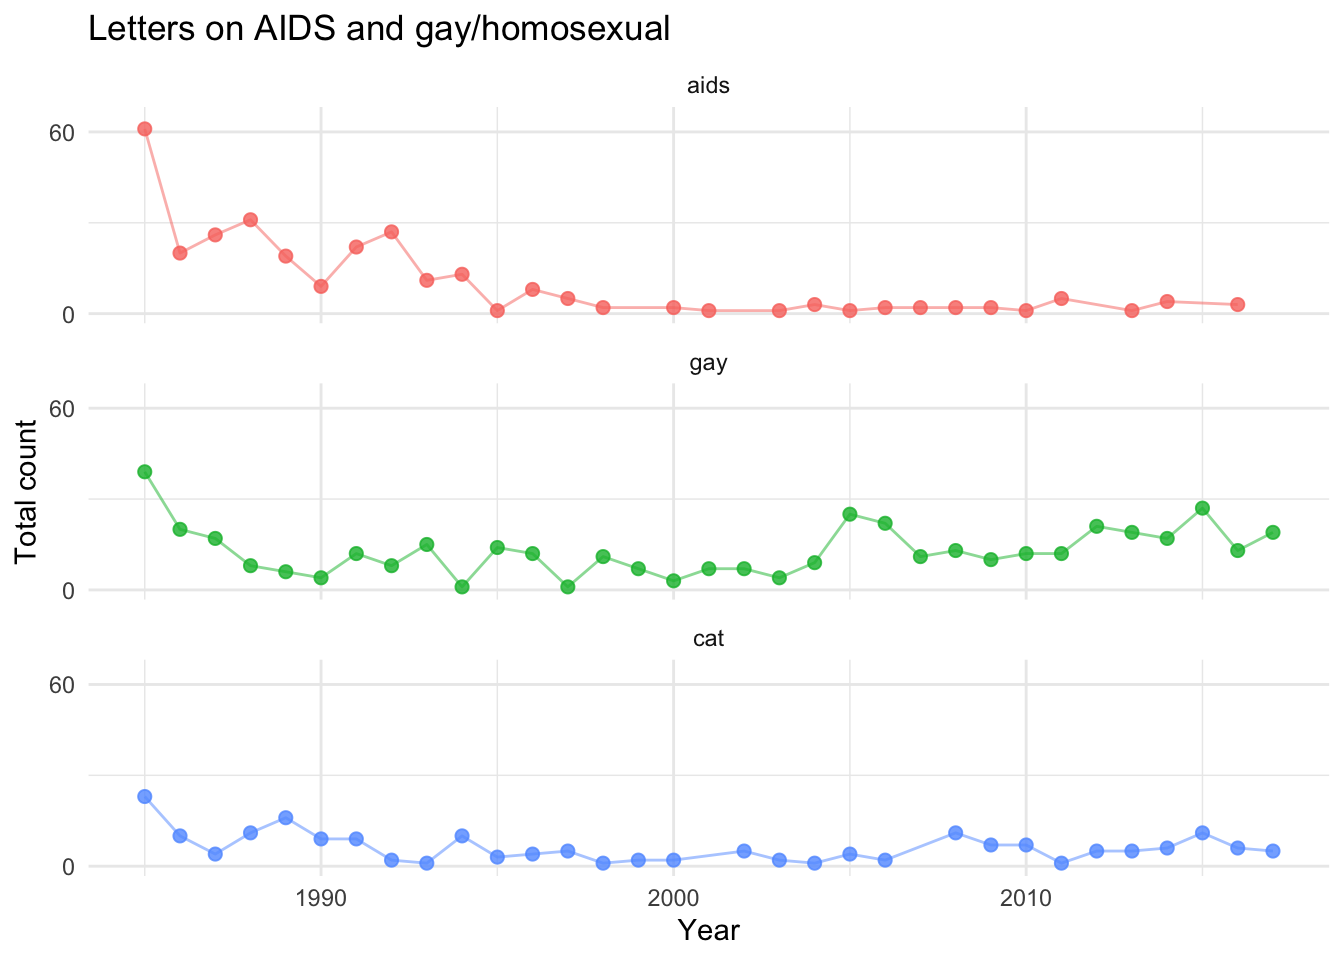
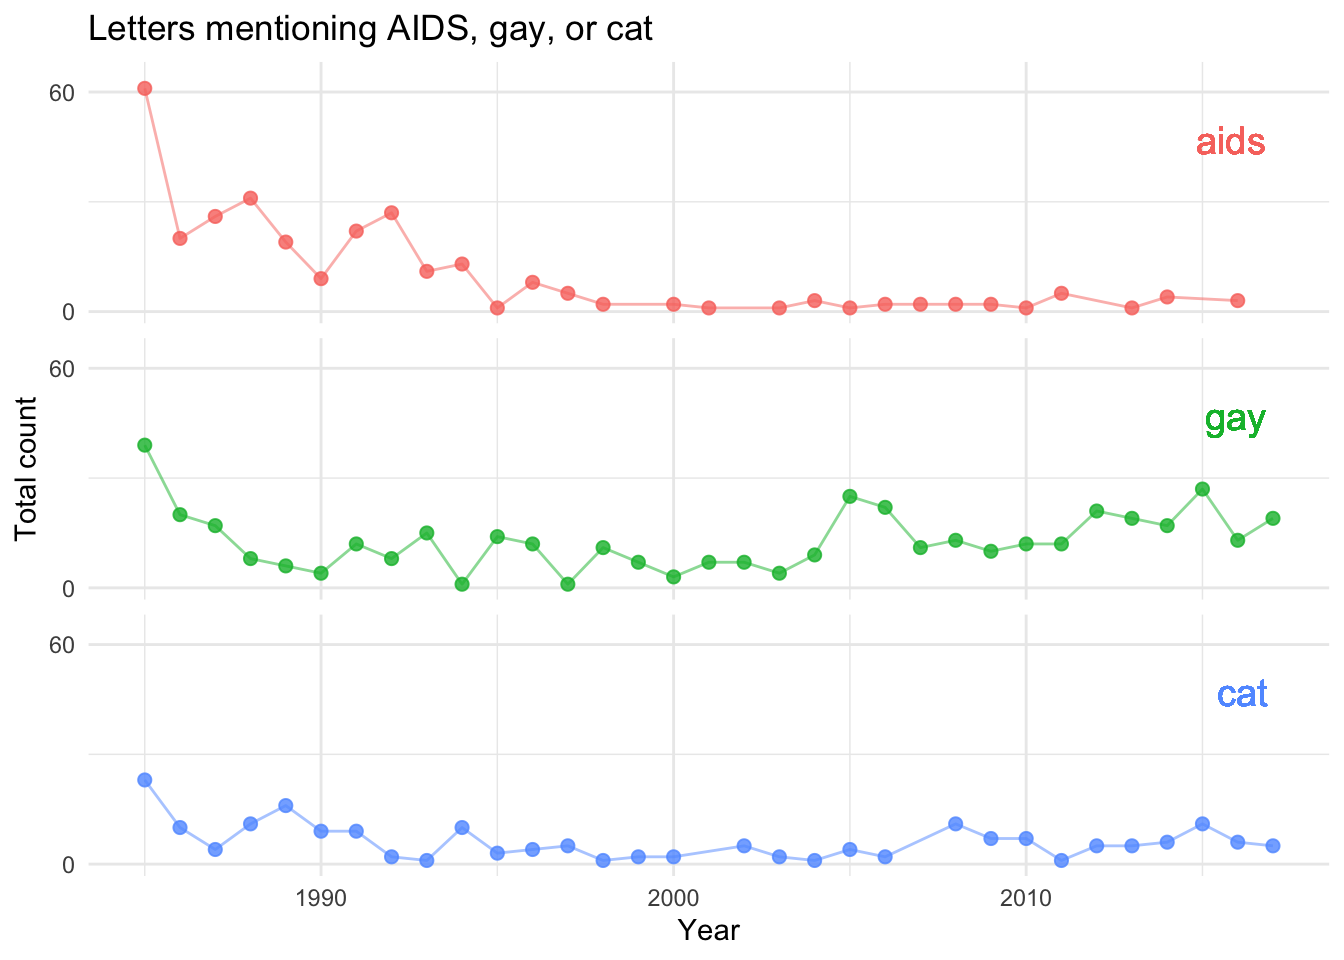
Otro

diff --git a/docs/pudding.html b/docs/pudding.html
@@ -576,8 +576,8 @@ pre > code.sourceCode > span > a:first-child::before { text-decoration: underlin
 </section>
 <section id="aids" class="level1">
 <h1>AIDS</h1>
-<p>Although <strong>Dear Abby</strong> was first published in The San Francisco Chronicle on January 9, 1956, the data analyzed here ranges from 1985 to 2017. The AIDS (Acquired Immune Deficiency Syndrome) pandemic officially began on June 5, 1981, when the U.S. Centers for Disease Control and Prevention (CDC) published a report detailing a rare form of pneumonia (<em>Pneumocystis carinii</em>) in five young gay men in Los Angeles. In 1985,the U.S. Food and Drug Administration (FDA) approved the first commercial blood test for HIV (Human Immunodeficiency Virus), allowing blood banks to screen donations. Public fear peaked following high-profile diagnoses, such as actor Rock Hudson publicizing his illness before dying in October 1985.</p>
-<p>Did the Dear Abby letters reflect the public preocupation for the AIDS pandemic in the 1980s? Below are plots showing the number of letters that included the words AIDS and gay or homosexual. For comparison, I have included letters containing the word cat.</p>
+<p>Although <strong>Dear Abby</strong> was first published in <em>The San Francisco Chronicle</em> on January 9, 1956, the data analyzed here ranges from 1985 to 2017. The AIDS (Acquired Immune Deficiency Syndrome) pandemic officially began on June 5, 1981, when the U.S. Centers for Disease Control and Prevention (CDC) published a report detailing a rare form of pneumonia (<em>Pneumocystis carinii</em>) in five young gay men in Los Angeles. In 1985, the U.S. Food and Drug Administration (FDA) approved the first commercial blood test for HIV (Human Immunodeficiency Virus), allowing blood banks to screen donations. Public fear peaked following high-profile diagnoses, such as actor Rock Hudson publicizing his illness before dying in October 1985.</p>
+<p>Did the Dear Abby letters reflect the public preocupation for the AIDS pandemic in the 1980s? Below are plots showing the number of letters that included the words <em>AIDS</em> and <em>gay</em> or <em>homosexual</em>. For comparison, letters containing the word <em>cat</em> are also displayed.</p>
 <div class="cell">
 <details class="code-fold">
 <summary>Code</summary>
@@ -612,20 +612,37 @@ pre > code.sourceCode > span > a:first-child::before { text-decoration: underlin
 <span id="cb11-29"><a href="#cb11-29" aria-hidden="true" tabindex="-1"></a>  <span class="fu">ggplot</span>(<span class="fu">aes</span>(<span class="at">x =</span> year, <span class="at">y =</span> n, <span class="at">color =</span> word)) <span class="sc">+</span></span>
 <span id="cb11-30"><a href="#cb11-30" aria-hidden="true" tabindex="-1"></a>  <span class="fu">geom_point</span>(<span class="at">alpha =</span> <span class="fl">0.8</span>, <span class="at">size =</span> <span class="dv">2</span>) <span class="sc">+</span></span>
 <span id="cb11-31"><a href="#cb11-31" aria-hidden="true" tabindex="-1"></a>  <span class="fu">geom_line</span>(<span class="at">alpha =</span> <span class="fl">0.5</span>) <span class="sc">+</span></span>
-<span id="cb11-32"><a href="#cb11-32" aria-hidden="true" tabindex="-1"></a>  <span class="fu">facet_wrap</span>(<span class="sc">~</span> word, <span class="at">ncol =</span> <span class="dv">1</span>, <span class="at">scales =</span> <span class="st">"fixed"</span>) <span class="sc">+</span> <span class="co"># Uses the same scale for all panels</span></span>
-<span id="cb11-33"><a href="#cb11-33" aria-hidden="true" tabindex="-1"></a>  <span class="fu">scale_y_continuous</span>(</span>
-<span id="cb11-34"><a href="#cb11-34" aria-hidden="true" tabindex="-1"></a>    <span class="at">limits =</span> <span class="fu">c</span>(<span class="dv">0</span>, <span class="dv">65</span>),   <span class="co"># Forces the axis to run from 0 to 4</span></span>
-<span id="cb11-35"><a href="#cb11-35" aria-hidden="true" tabindex="-1"></a>    <span class="at">breaks =</span> <span class="fu">c</span>(<span class="dv">0</span>, <span class="dv">60</span>),   <span class="co"># Places tick marks at both 0 and 4</span></span>
-<span id="cb11-36"><a href="#cb11-36" aria-hidden="true" tabindex="-1"></a>    <span class="at">labels =</span> <span class="fu">c</span>(<span class="st">"0"</span>, <span class="st">"60"</span>) <span class="co"># Displays labels for both 0 and 4</span></span>
-<span id="cb11-37"><a href="#cb11-37" aria-hidden="true" tabindex="-1"></a>  ) <span class="sc">+</span></span>
-<span id="cb11-38"><a href="#cb11-38" aria-hidden="true" tabindex="-1"></a>  <span class="fu">labs</span>(</span>
-<span id="cb11-39"><a href="#cb11-39" aria-hidden="true" tabindex="-1"></a>    <span class="at">title =</span> <span class="st">"Letters on AIDS and gay/homosexual"</span>,</span>
-<span id="cb11-40"><a href="#cb11-40" aria-hidden="true" tabindex="-1"></a>    <span class="at">x =</span> <span class="st">"Year"</span>,</span>
-<span id="cb11-41"><a href="#cb11-41" aria-hidden="true" tabindex="-1"></a>    <span class="at">y =</span> <span class="st">"Total count"</span>,</span>
-<span id="cb11-42"><a href="#cb11-42" aria-hidden="true" tabindex="-1"></a>    <span class="at">color =</span> <span class="st">"Word"</span></span>
-<span id="cb11-43"><a href="#cb11-43" aria-hidden="true" tabindex="-1"></a>  ) <span class="sc">+</span></span>
-<span id="cb11-44"><a href="#cb11-44" aria-hidden="true" tabindex="-1"></a>  <span class="fu">theme_minimal</span>() <span class="sc">+</span></span>
-<span id="cb11-45"><a href="#cb11-45" aria-hidden="true" tabindex="-1"></a>  <span class="fu">theme</span>(<span class="at">legend.position =</span> <span class="st">"none"</span>) <span class="co"># Optional: hides legend since each panel is already labeled</span></span></code></pre></div><button title="Copy to Clipboard" class="code-copy-button"><i class="bi"></i></button></div>
+<span id="cb11-32"><a href="#cb11-32" aria-hidden="true" tabindex="-1"></a>  <span class="fu">facet_wrap</span>(<span class="sc">~</span> word, <span class="at">ncol =</span> <span class="dv">1</span>, <span class="at">scales =</span> <span class="st">"fixed"</span>) <span class="sc">+</span> </span>
+<span id="cb11-33"><a href="#cb11-33" aria-hidden="true" tabindex="-1"></a>  </span>
+<span id="cb11-34"><a href="#cb11-34" aria-hidden="true" tabindex="-1"></a>  <span class="co"># Adds larger labels inside the top-right corner of each panel</span></span>
+<span id="cb11-35"><a href="#cb11-35" aria-hidden="true" tabindex="-1"></a>  <span class="fu">geom_text</span>(</span>
+<span id="cb11-36"><a href="#cb11-36" aria-hidden="true" tabindex="-1"></a>    <span class="at">data =</span> <span class="cf">function</span>(x) { </span>
+<span id="cb11-37"><a href="#cb11-37" aria-hidden="true" tabindex="-1"></a>      <span class="co"># Automatically finds the max year for each facet to place it on the right</span></span>
+<span id="cb11-38"><a href="#cb11-38" aria-hidden="true" tabindex="-1"></a>      <span class="fu">transform</span>(x, <span class="at">max_year =</span> <span class="fu">max</span>(year)) </span>
+<span id="cb11-39"><a href="#cb11-39" aria-hidden="true" tabindex="-1"></a>    },</span>
+<span id="cb11-40"><a href="#cb11-40" aria-hidden="true" tabindex="-1"></a>    <span class="fu">aes</span>(<span class="at">x =</span> max_year, <span class="at">y =</span> <span class="dv">47</span>, <span class="at">label =</span> word, <span class="at">color =</span> word),</span>
+<span id="cb11-41"><a href="#cb11-41" aria-hidden="true" tabindex="-1"></a>    <span class="at">hjust =</span> <span class="fl">1.1</span>,         <span class="co"># Pushes it slightly away from the right edge</span></span>
+<span id="cb11-42"><a href="#cb11-42" aria-hidden="true" tabindex="-1"></a>    <span class="at">size =</span> <span class="dv">5</span>,            <span class="co"># Makes the label text larger</span></span>
+<span id="cb11-43"><a href="#cb11-43" aria-hidden="true" tabindex="-1"></a>    <span class="co"># fontface = "bold",   # Makes the label text bold</span></span>
+<span id="cb11-44"><a href="#cb11-44" aria-hidden="true" tabindex="-1"></a>    <span class="at">show.legend =</span> <span class="cn">FALSE</span></span>
+<span id="cb11-45"><a href="#cb11-45" aria-hidden="true" tabindex="-1"></a>  ) <span class="sc">+</span></span>
+<span id="cb11-46"><a href="#cb11-46" aria-hidden="true" tabindex="-1"></a>  </span>
+<span id="cb11-47"><a href="#cb11-47" aria-hidden="true" tabindex="-1"></a>  <span class="fu">scale_y_continuous</span>(</span>
+<span id="cb11-48"><a href="#cb11-48" aria-hidden="true" tabindex="-1"></a>    <span class="at">limits =</span> <span class="fu">c</span>(<span class="dv">0</span>, <span class="dv">65</span>),   <span class="co"># Forces the axis to run from 0 to 65</span></span>
+<span id="cb11-49"><a href="#cb11-49" aria-hidden="true" tabindex="-1"></a>    <span class="at">breaks =</span> <span class="fu">c</span>(<span class="dv">0</span>, <span class="dv">60</span>),   <span class="co"># Places tick marks at 0 and 60</span></span>
+<span id="cb11-50"><a href="#cb11-50" aria-hidden="true" tabindex="-1"></a>    <span class="at">labels =</span> <span class="fu">c</span>(<span class="st">"0"</span>, <span class="st">"60"</span>) <span class="co"># Displays labels for 0 and 60</span></span>
+<span id="cb11-51"><a href="#cb11-51" aria-hidden="true" tabindex="-1"></a>  ) <span class="sc">+</span></span>
+<span id="cb11-52"><a href="#cb11-52" aria-hidden="true" tabindex="-1"></a>  <span class="fu">labs</span>(</span>
+<span id="cb11-53"><a href="#cb11-53" aria-hidden="true" tabindex="-1"></a>    <span class="at">title =</span> <span class="st">"Letters mentioning AIDS, gay, or cat"</span>,</span>
+<span id="cb11-54"><a href="#cb11-54" aria-hidden="true" tabindex="-1"></a>    <span class="at">x =</span> <span class="st">"Year"</span>,</span>
+<span id="cb11-55"><a href="#cb11-55" aria-hidden="true" tabindex="-1"></a>    <span class="at">y =</span> <span class="st">"Total count"</span>,</span>
+<span id="cb11-56"><a href="#cb11-56" aria-hidden="true" tabindex="-1"></a>    <span class="at">color =</span> <span class="st">"Word"</span></span>
+<span id="cb11-57"><a href="#cb11-57" aria-hidden="true" tabindex="-1"></a>  ) <span class="sc">+</span></span>
+<span id="cb11-58"><a href="#cb11-58" aria-hidden="true" tabindex="-1"></a>  <span class="fu">theme_minimal</span>() <span class="sc">+</span></span>
+<span id="cb11-59"><a href="#cb11-59" aria-hidden="true" tabindex="-1"></a>  <span class="fu">theme</span>(</span>
+<span id="cb11-60"><a href="#cb11-60" aria-hidden="true" tabindex="-1"></a>    <span class="at">legend.position =</span> <span class="st">"none"</span>,</span>
+<span id="cb11-61"><a href="#cb11-61" aria-hidden="true" tabindex="-1"></a>    <span class="at">strip.text =</span> <span class="fu">element_blank</span>() <span class="co"># Hides the original facet headers since they are now inside</span></span>
+<span id="cb11-62"><a href="#cb11-62" aria-hidden="true" tabindex="-1"></a>  )</span></code></pre></div><button title="Copy to Clipboard" class="code-copy-button"><i class="bi"></i></button></div>
 </details>
 <div class="cell-output-display">
 <div>
